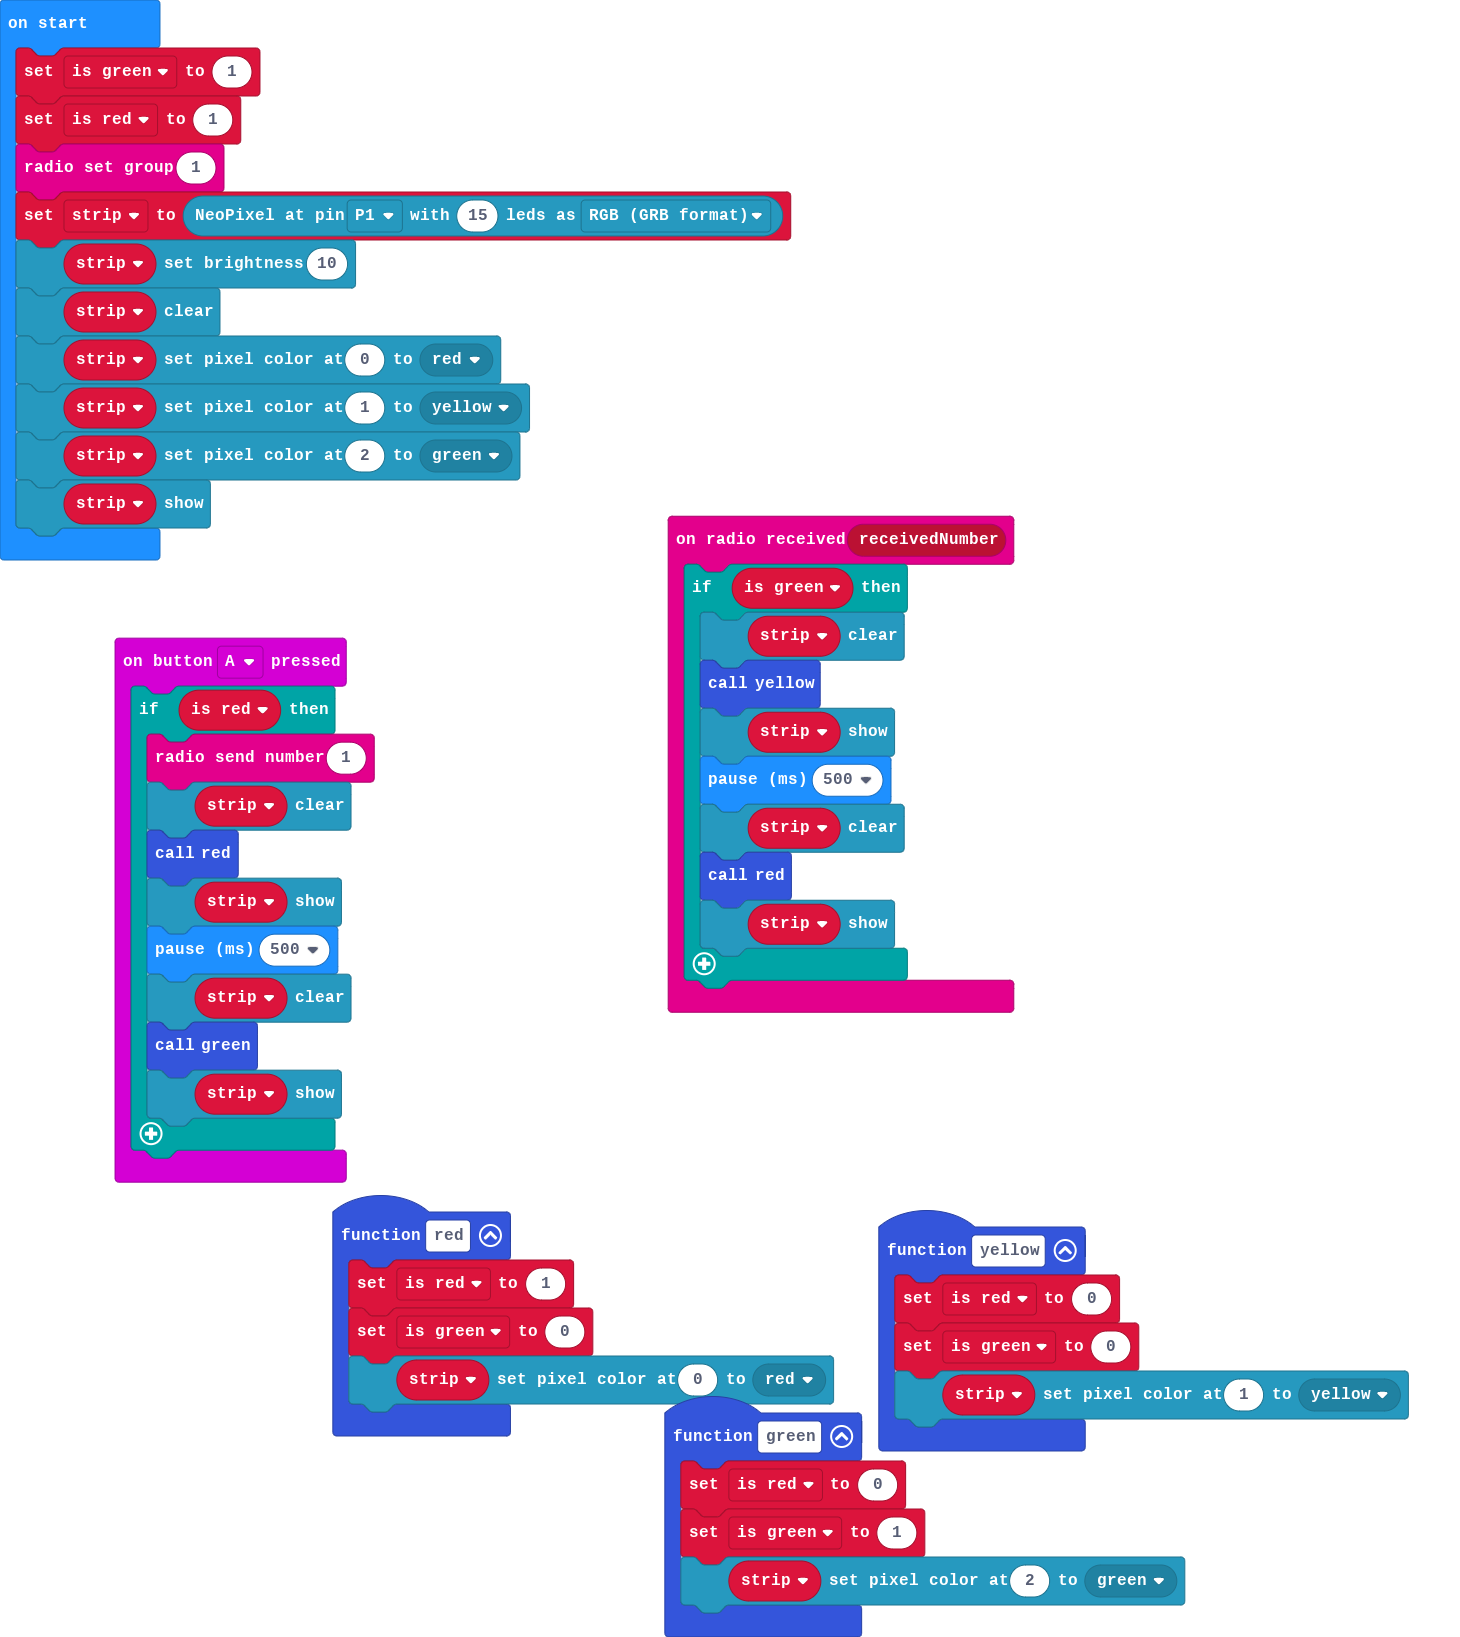
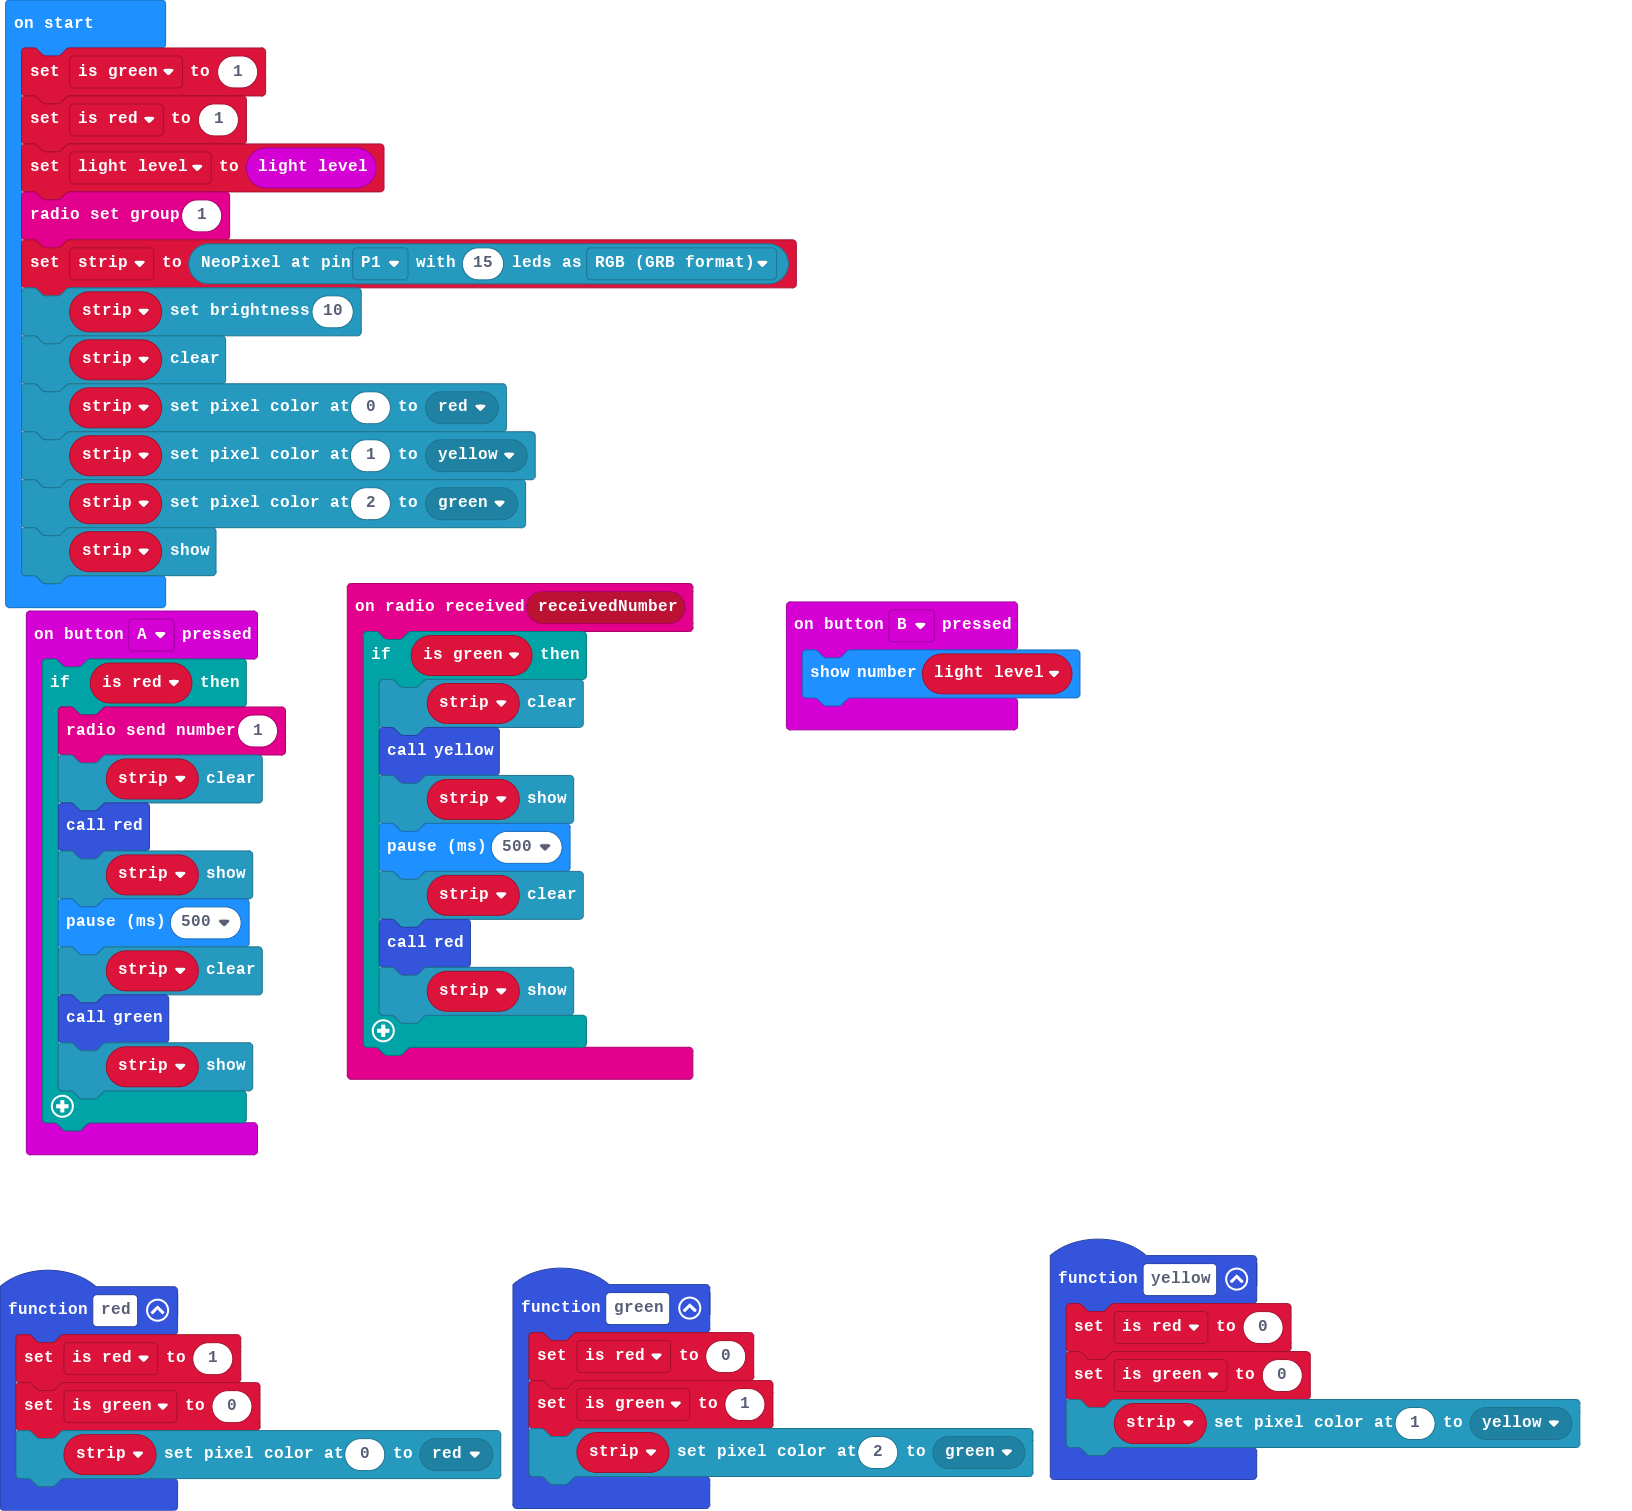
WIP

diff --git a/main.ts b/main.ts
@@ -26,6 +26,9 @@ input.onButtonPressed(Button.A, function () {
         strip.show()
     }
 })
+input.onButtonPressed(Button.B, function () {
+    basic.showNumber(light_level)
+})
 function yellow () {
     is_red = 0
     is_green = 0
@@ -37,10 +40,12 @@ function red () {
     strip.setPixelColor(0, neopixel.colors(NeoPixelColors.Red))
 }
 let strip: neopixel.Strip = null
+let light_level = 0
 let is_red = 0
 let is_green = 0
 is_green = 1
 is_red = 1
+light_level = input.lightLevel()
 radio.setGroup(1)
 strip = neopixel.create(DigitalPin.P1, 15, NeoPixelMode.RGB)
 strip.setBrightness(10)
